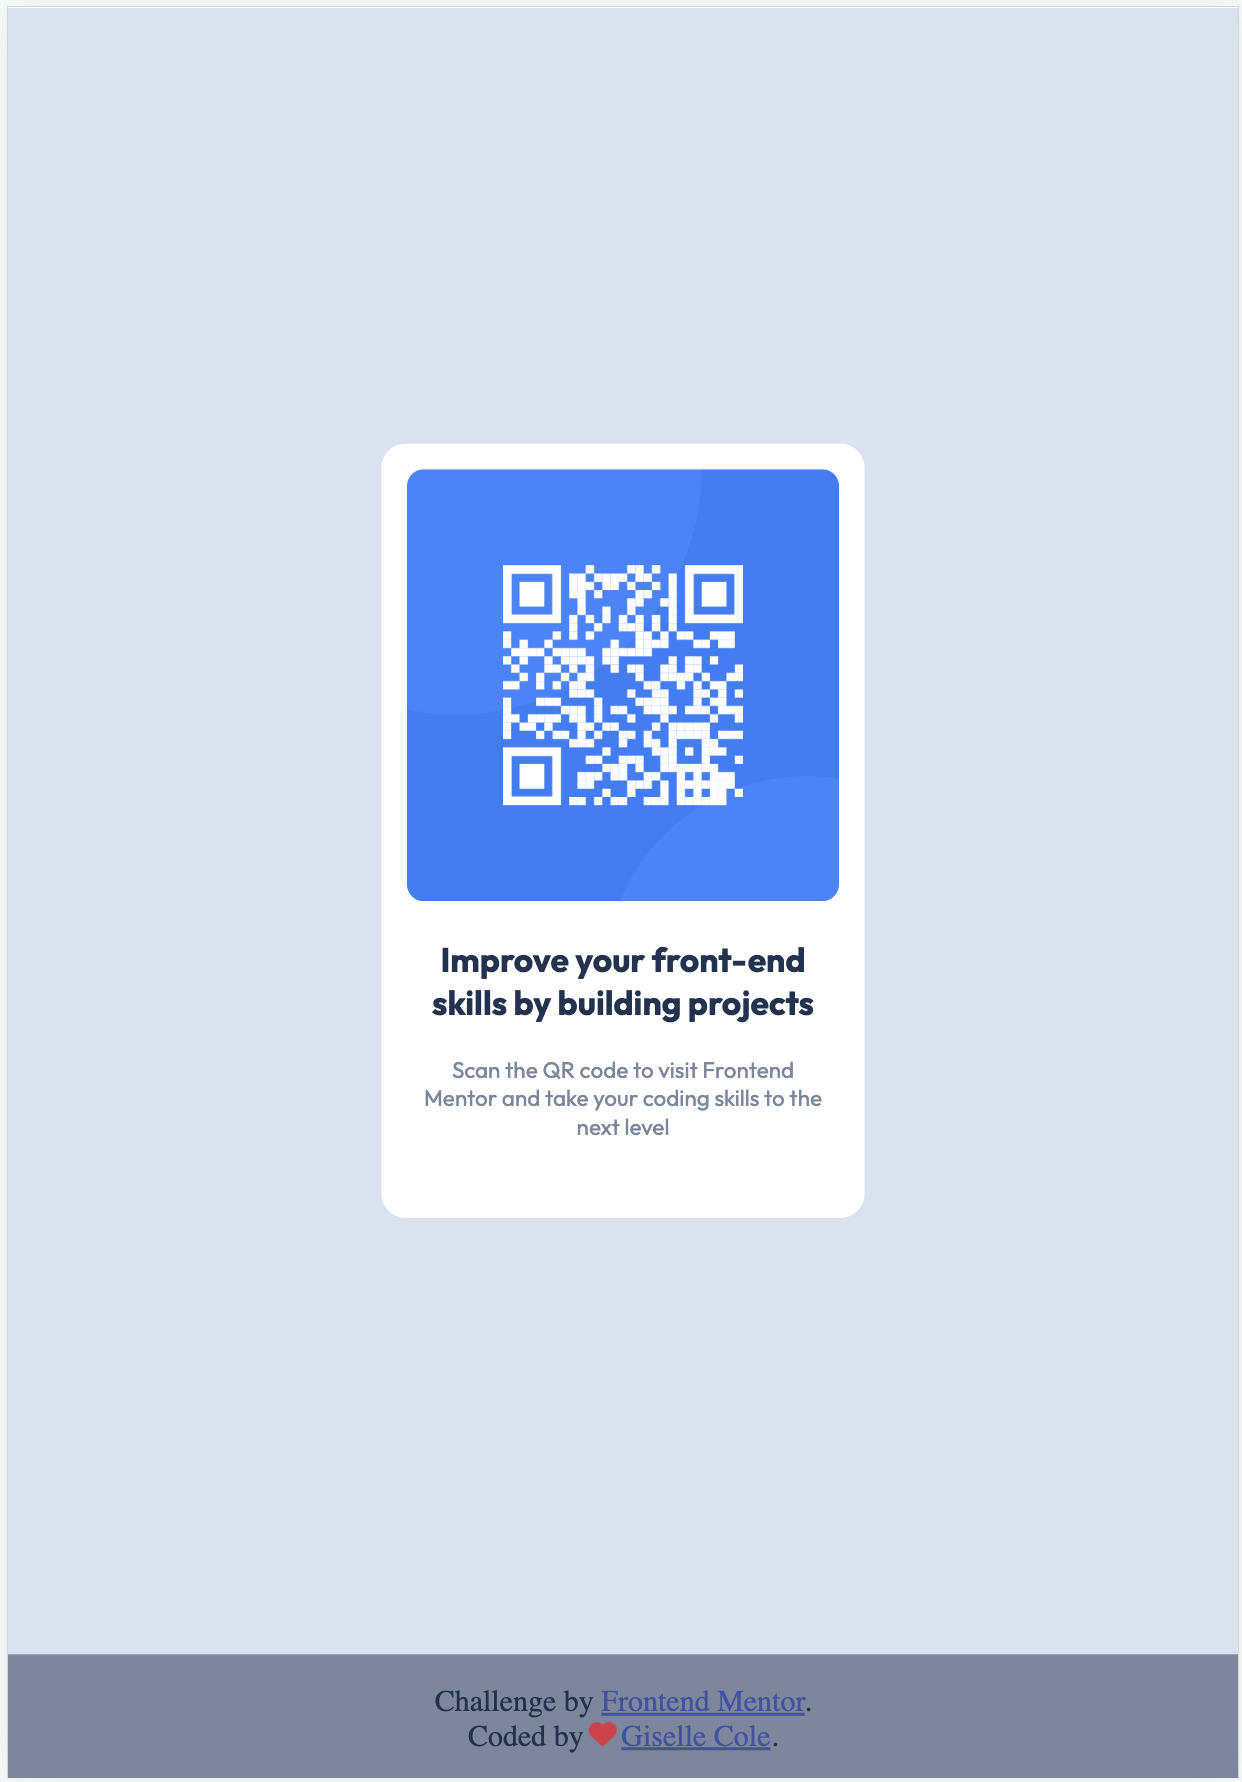
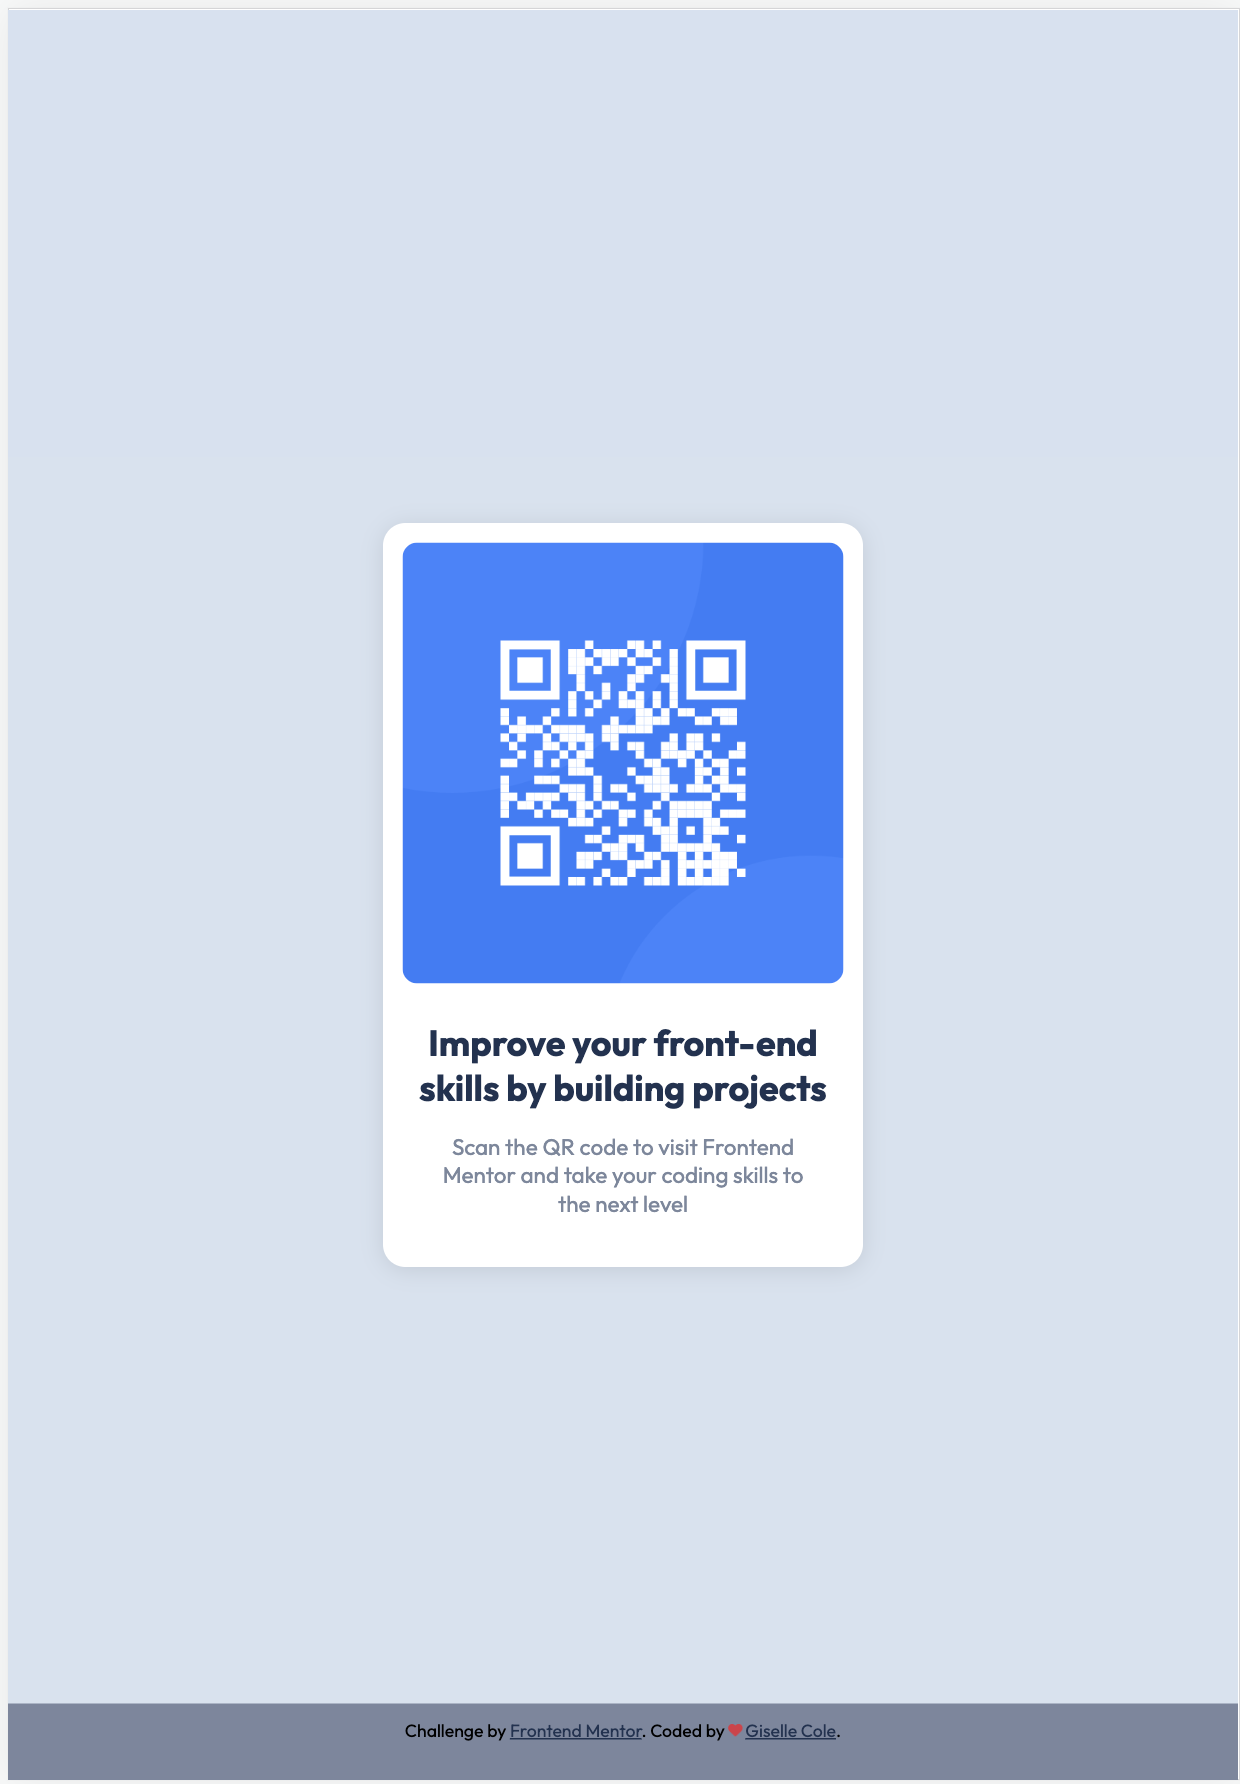
tidy up

Changed region(s): [[0.3065, 0.2469, 0.7048, 0.7099], [0.0, 0.9259, 1.0, 1.0]]

diff --git a/dist/css/style.css b/dist/css/style.css
@@ -7,73 +7,69 @@
 
 :root {
   --white: hsl(0, 0%, 100%);
-  --lightgray: hsl(212, 45%, 89%);
-  --grayishblue: hsl(220, 15%, 55%);
-  --darkblue: hsl(218, 44%, 22%);
-  --footerlink: hsl(228, 45%, 44%);
+  --light-gray: hsl(212, 45%, 89%);
+  --grayish-blue: hsl(220, 15%, 55%);
+  --dark-blue: hsl(218, 44%, 22%);
+  --footer-link: hsl(228, 45%, 44%);
   --red: #dc3545;
-  --fontfamily: "Outfit", sans-serif;
+  --font-Outfit: "Outfit", sans-serif;
+}
+
+body {
+  min-height: 100vh;
+  display: grid;
+  place-items: center;
+  background-color: var(--light-gray);
+  font-family: var(--font-Outfit);
 }
 
 main {
   display: flex;
-  font-family: var(--fontfamily);
-  background-color: var(--lightgray);
-  min-height: 92vh;
-  align-items: center;
-  font-size: 0.9375em;
-}
-@media (min-width: 820px) {
-  main {
-    min-height: 93vh;
-  }
-}
-main .container {
-  max-width: 23.4375em;
-  margin: 0 auto;
-}
-main .container .card {
+  flex-direction: column;
+  width: 20em;
+  height: 31em;
+  padding-bottom: 2.1875em;
   background-color: var(--white);
-  padding: 1.125em;
-  border-radius: 1.0625em;
+  border-radius: 0.9375em;
+  gap: 0.9375em;
+  box-shadow: 0 0.125em 0.9375em rgba(0, 0, 0, 0.1);
+}
+main .card-image {
+  border-radius: 0.625em;
+  margin: 0.8125em;
+  margin-bottom: 0.5625em;
+}
+main .title {
+  color: var(--dark-blue);
   text-align: center;
-  margin: 0 1em;
+  width: 90%;
+  align-self: center;
 }
-main .container .card img {
-  width: 100%;
-  border-radius: 0.75em;
-}
-main .container .card .text {
-  padding: 1.375em 0.625em;
-}
-main .container .card .text h2 {
-  color: var(--darkblue);
-  padding-bottom: 0.9375em;
-}
-main .container .card .text p {
-  color: var(--grayishblue);
-  padding-bottom: 0.9375em;
+main .description {
+  color: var(--grayish-blue);
+  font-size: 0.9375em;
+  text-align: center;
+  padding: 0 1.875em;
 }
 
-footer {
-  display: flex;
-  width: 100vw;
-  padding: 1.25em;
-  background-color: var(--grayishblue);
-  align-items: center;
-  justify-content: center;
-  text-align: center;
+footer.attribution {
+  position: absolute;
+  bottom: 0;
+  width: 100%;
+  padding: 0.625em;
+  background-color: var(--grayish-blue);
 }
-footer .attribution {
-  font-size: 0.875em;
-  color: var(--darkblue);
+footer.attribution p {
   text-align: center;
+  margin-bottom: 1rem;
+  font-size: 0.735rem;
 }
-@media (min-width: 820px) {
-  footer .attribution {
-    font-size: 1.25em;
+footer.attribution a {
+  color: var(--dark-blue);
+}
+
+@media only screen and (max-width: 440px) {
+  .container {
+    width: 80%;
   }
-}
-footer .attribution a {
-  color: var(--footerlink);
 }/*# sourceMappingURL=style.css.map */

diff --git a/dist/scss/style.scss b/dist/scss/style.scss
@@ -2,60 +2,59 @@
 @use "resets";
 @use "variables";
 
+body {
+  min-height: 100vh;
+  display: grid;
+  place-items: center;
+  background-color: var(--light-gray);
+  font-family: var(--font-Outfit);
+}
 main {
   display: flex;
-  font-family: var(--fontfamily);
-  background-color: var(--lightgray);
-  min-height: 92vh;
-  align-items: center;
-  font-size: functions.em(15);
-  @media (min-width: 820px) {
-    min-height: 93vh;
+  flex-direction: column;
+  width: functions.em(320);
+  height: functions.em(496);
+  padding-bottom: functions.em(35);
+  background-color: var(--white);
+  border-radius: functions.em(15);
+  gap: functions.em(15);
+  box-shadow: 0 functions.em(2) functions.em(15) rgba(0, 0, 0, 0.1);
+  & .card-image {
+    border-radius: functions.em(10);
+    margin: functions.em(13);
+    margin-bottom: functions.em(9);
   }
-  & .container {
-    max-width: functions.em(375);
-    margin: 0 auto;
-    & .card {
-      background-color: var(--white);
-      padding: functions.em(18);
-      border-radius: functions.em(17);
-      text-align: center;
-      margin: 0 functions.em(16);
-      & img {
-        width: 100%;
-        border-radius: functions.em(12);
-      }
-      & .text {
-        padding: functions.em(22) functions.em(10);
-        & h2 {
-          color: var(--darkblue);
-          padding-bottom: functions.em(15);
-        }
-        & p {
-          color: var(--grayishblue);
-          padding-bottom: functions.em(15);
-        }
-      }
-    }
+  & .title {
+    color: var(--dark-blue);
+    text-align: center;
+    width: 90%;
+    align-self: center;
+  }
+  & .description {
+    color: var(--grayish-blue);
+    font-size: functions.em(15);
+    text-align: center;
+    padding: 0 functions.em(30);
   }
 }
-footer {
-  display: flex;
-  width: 100vw;
-  padding: functions.em(20);
-  background-color: var(--grayishblue);
-  align-items: center;
-  justify-content: center;
-  text-align: center;
-  & .attribution {
-    font-size: functions.em(14);
-    color: var(--darkblue);
+footer.attribution {
+  position: absolute;
+  bottom: 0;
+  width: 100%;
+  padding: functions.em(10);
+  background-color: var(--grayish-blue);
+  & p {
     text-align: center;
-    @media (min-width: 820px) {
-      font-size: functions.em(20);
-    }
+    margin-bottom: 1rem;
+    font-size: 0.735rem;
   }
-  & .attribution a {
-    color: var(--footerlink);
+  & a {
+    color: var(--dark-blue);
+  }
+}
+//for mobile
+@media only screen and (max-width: 440px) {
+  .container {
+    width: 80%;
   }
 }

diff --git a/index.html b/index.html
@@ -12,24 +12,17 @@
 
 <body>
   <main>
-    <div class="container">
-      <div class="card">
-        <img src="./images/image-qr-code.png" alt="QR code to frontendmentor.io">
-        <div class="text">
-          <h2>Improve your front-end skills by building projects</h2>
-          <p>Scan the QR code to visit Frontend Mentor and take your coding skills to the next level</p>
-        </div>
-      </div>
-    </div>
+    <img class="card-image" src="./images/image-qr-code.png" alt="QR code to frontendmentor.io">
+    <h2 class="title">Improve your front-end skills by building projects</h2>
+    <p class="description">Scan the QR code to visit Frontend Mentor and take your coding skills to the next level</p>
   </main>
-  <footer>
-    <div class="attribution">
+  <footer class="attribution">
+    <p>
       Challenge by <a href="https://www.frontendmentor.io?ref=challenge" target="_blank">Frontend Mentor</a>.
-      <p>Coded by <i class="fa-solid fa-heart fa-beat fa-xs" style="color:var(--red);"></i> <a
-          href="https://gisellecole.github.io/QR-component-HTML-CSS-Frontend-Mentor/">Giselle
-          Cole</a>.
-      <p>
-    </div>
+      Coded by <i class="fa-solid fa-heart fa-beat fa-xs" style="color:var(--red);"></i> <a
+        href="https://gisellecole.github.io/QR-component-HTML-CSS-Frontend-Mentor/">Giselle
+        Cole</a>.
+    <p>
   </footer>
 </body>
 

diff --git a/dist/scss/_variables.scss b/dist/scss/_variables.scss
@@ -2,10 +2,10 @@
 
 :root {
   --white: hsl(0, 0%, 100%);
-  --lightgray: hsl(212, 45%, 89%);
-  --grayishblue: hsl(220, 15%, 55%);
-  --darkblue: hsl(218, 44%, 22%);
-  --footerlink: hsl(228, 45%, 44%);
+  --light-gray: hsl(212, 45%, 89%);
+  --grayish-blue: hsl(220, 15%, 55%);
+  --dark-blue: hsl(218, 44%, 22%);
+  --footer-link: hsl(228, 45%, 44%);
   --red: #dc3545;
-  --fontfamily: "Outfit", sans-serif;
+  --font-Outfit: "Outfit", sans-serif;
 }
